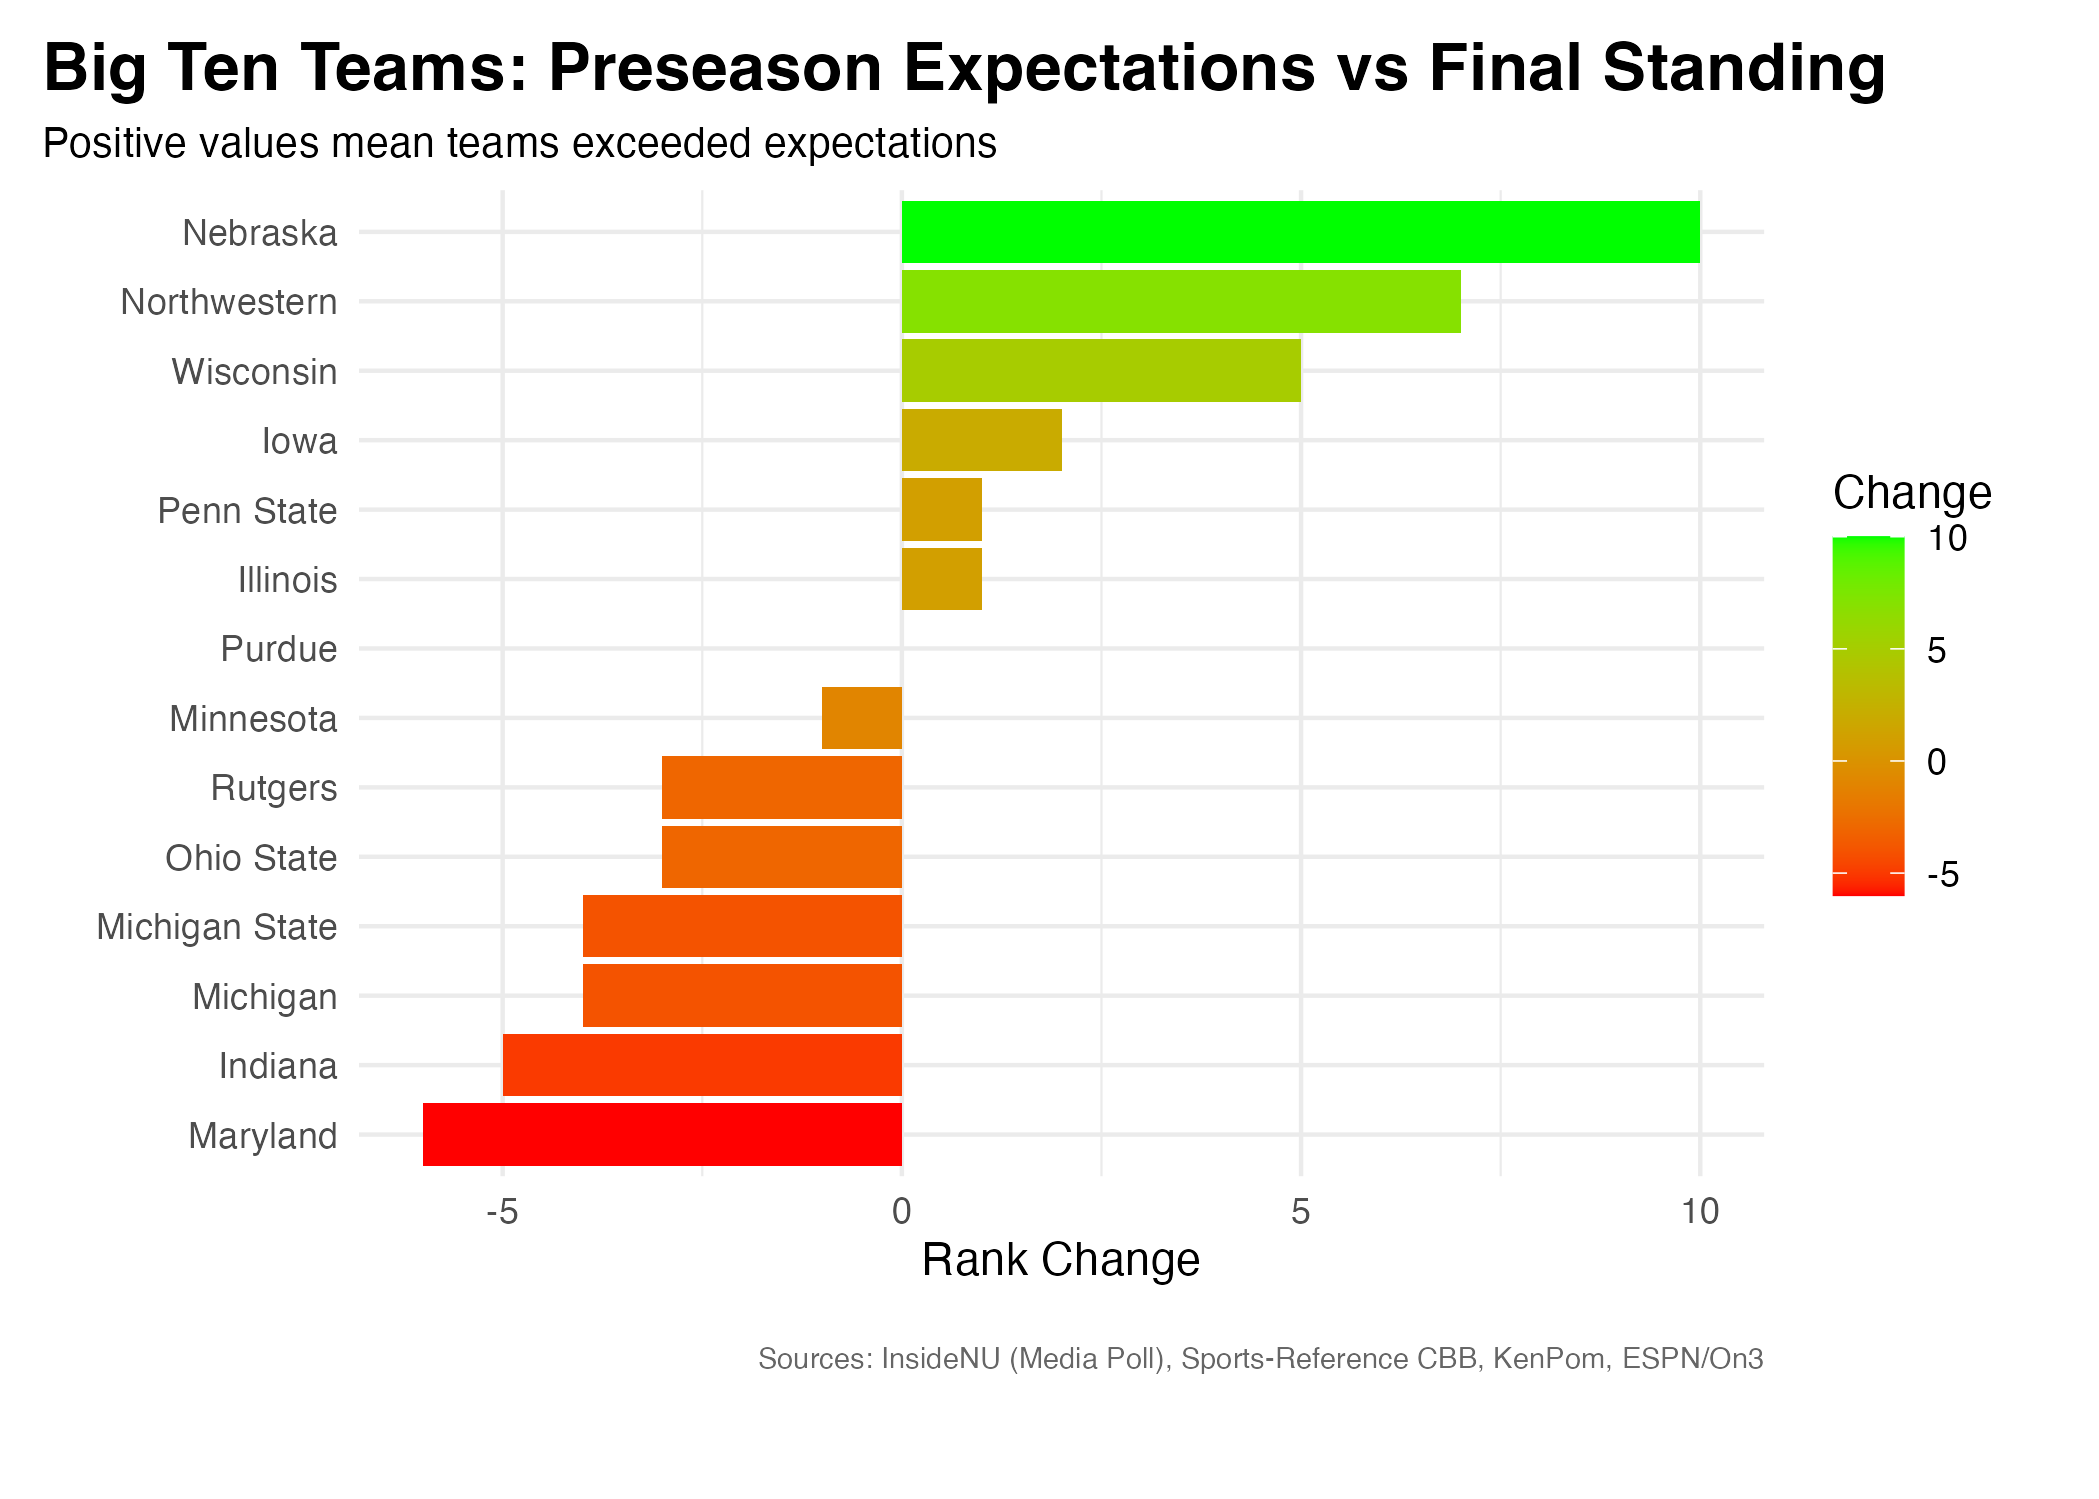
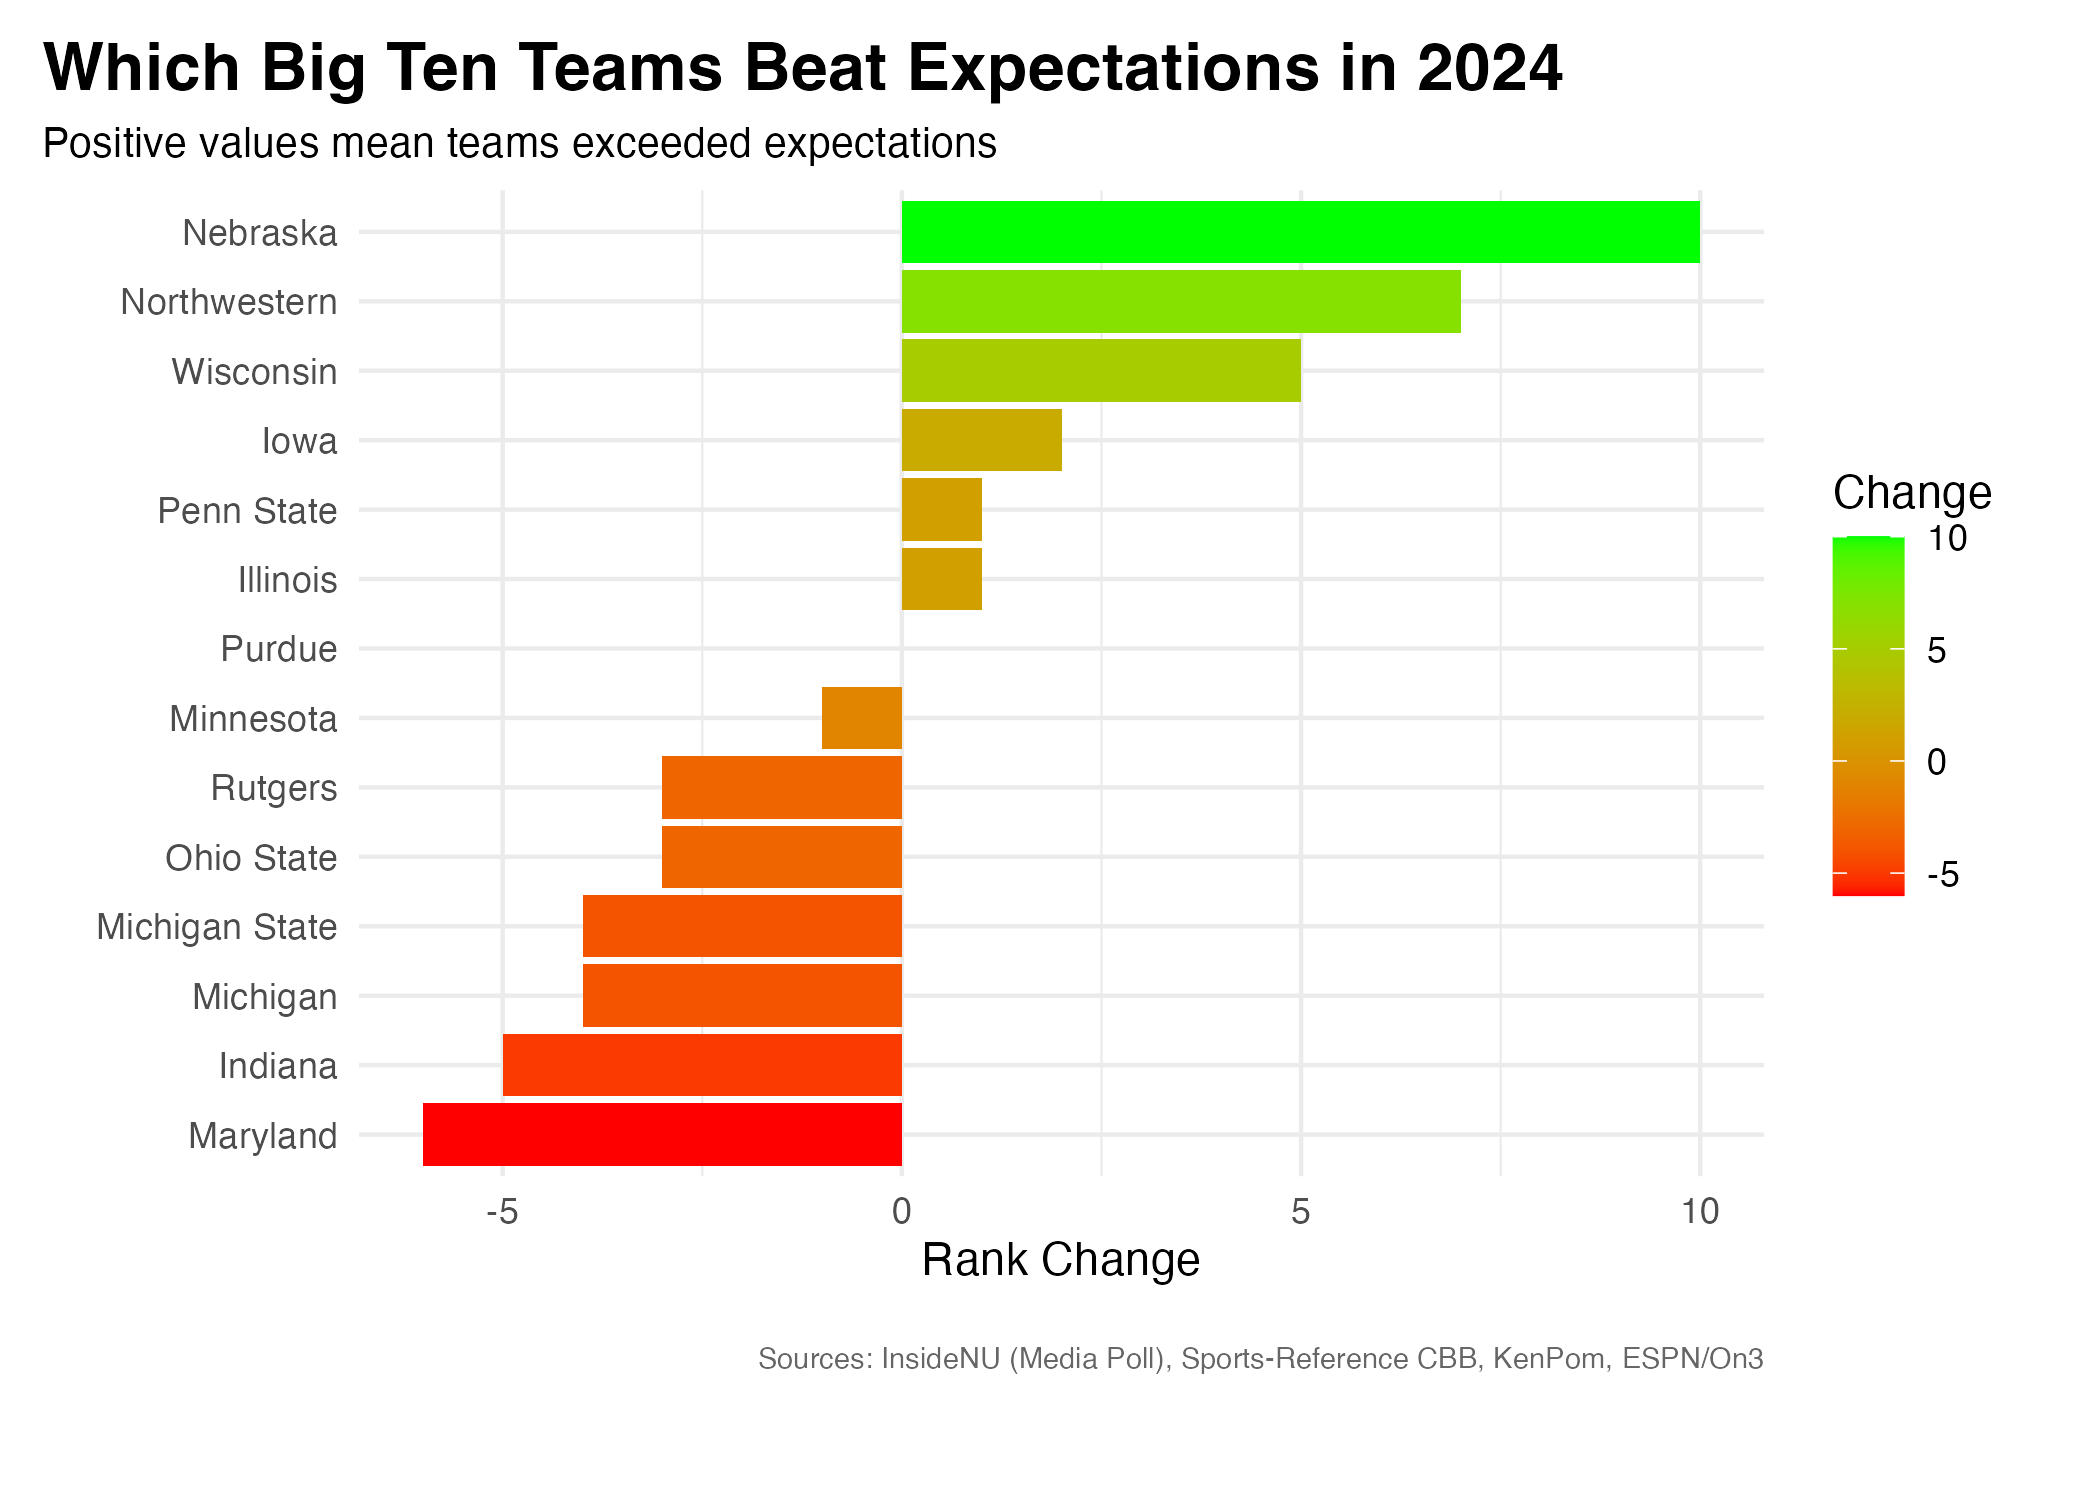
updated again

Changed region(s): [[0.0, 0.0307, 0.898, 0.0614]]

diff --git a/posts/nebraska-mens-basketball-national-title/index.html b/posts/nebraska-mens-basketball-national-title/index.html
@@ -9,7 +9,7 @@
 <meta name="author" content="Brady J. Anderson">
 <meta name="dcterms.date" content="2026-05-04">
 
-<title>Big Ten Men’s Basketball 2024: Tracking the Classic 14 Teams – Brady’s Sports Blog</title>
+<title>Big Ten Men’s Basketball 2024: Preseason Expectations vs.&nbsp;Real Results – Brady's Sports Blog</title>
 <style>
 code{white-space: pre-wrap;}
 span.smallcaps{font-variant: small-caps;}
@@ -154,7 +154,7 @@ pre > code.sourceCode > span > a:first-child::before { text-decoration: underlin
 <header id="title-block-header" class="quarto-title-block default page-columns page-full">
   <div class="quarto-title-banner page-columns page-full">
     <div class="quarto-title column-body">
-      <h1 class="title">Big Ten Men’s Basketball 2024: Tracking the Classic 14 Teams</h1>
+      <h1 class="title">Big Ten Men’s Basketball 2024: Preseason Expectations vs.&nbsp;Real Results</h1>
                       </div>
   </div>
     
@@ -190,7 +190,7 @@ pre > code.sourceCode > span > a:first-child::before { text-decoration: underlin
 
 
 
-<p>The 2024 Big Ten season was one of the most competitive in recent memory. Several teams outperformed their preseason expectations, while others struggled to find consistency.</p>
+<p>The 2024 Big Ten men’s basketball season was really competitive. Some teams did way better than people expected, while others didn’t do as well as predicted. I wanted to see which teams surprised everyone the most. By looking at their offense and defense, we can figure out who exceeded expectations and who fell short.</p>
 <p>Here’s a breakdown of how each team’s offensive and defensive efficiency contributed to their success.</p>
 <div class="cell">
 <details class="code-fold">
@@ -253,7 +253,7 @@ pre > code.sourceCode > span > a:first-child::before { text-decoration: underlin
 <span id="cb2-7"><a href="#cb2-7" aria-hidden="true" tabindex="-1"></a>  <span class="fu">scale_fill_gradient</span>(<span class="at">low =</span> <span class="st">"red"</span>, <span class="at">high =</span> <span class="st">"green"</span>) <span class="sc">+</span></span>
 <span id="cb2-8"><a href="#cb2-8" aria-hidden="true" tabindex="-1"></a>  <span class="fu">coord_flip</span>() <span class="sc">+</span></span>
 <span id="cb2-9"><a href="#cb2-9" aria-hidden="true" tabindex="-1"></a>  <span class="fu">labs</span>(</span>
-<span id="cb2-10"><a href="#cb2-10" aria-hidden="true" tabindex="-1"></a>    <span class="at">title =</span> <span class="st">"Big Ten Teams: Preseason Expectations vs Final Standing"</span>,</span>
+<span id="cb2-10"><a href="#cb2-10" aria-hidden="true" tabindex="-1"></a>    <span class="at">title =</span> <span class="st">"Which Big Ten Teams Beat Expectations in 2024"</span>,</span>
 <span id="cb2-11"><a href="#cb2-11" aria-hidden="true" tabindex="-1"></a>    <span class="at">subtitle =</span> <span class="st">"Positive values mean teams exceeded expectations"</span>,</span>
 <span id="cb2-12"><a href="#cb2-12" aria-hidden="true" tabindex="-1"></a>    <span class="at">x =</span> <span class="st">""</span>,</span>
 <span id="cb2-13"><a href="#cb2-13" aria-hidden="true" tabindex="-1"></a>    <span class="at">y =</span> <span class="st">"Rank Change"</span>,</span>

diff --git a/index.html b/index.html
@@ -209,7 +209,7 @@ window.Quarto = {
 
 <div class="quarto-listing quarto-listing-container-default" id="listing-listing">
 <div class="list quarto-listing-default">
-<div class="quarto-post image-right" data-index="0" data-listing-date-sort="1777870800000" data-listing-file-modified-sort="1763509395346" data-listing-date-modified-sort="NaN" data-listing-reading-time-sort="7" data-listing-word-count-sort="1319">
+<div class="quarto-post image-right" data-index="0" data-listing-date-sort="1777870800000" data-listing-file-modified-sort="1763510104556" data-listing-date-modified-sort="NaN" data-listing-reading-time-sort="7" data-listing-word-count-sort="1347">
 <div class="thumbnail"><a href="./posts/nebraska-mens-basketball-national-title/index.html" class="no-external">
 
 <img loading="lazy" src="./posts/nebraska-mens-basketball-national-title/image.png" class="thumbnail-image">
@@ -217,10 +217,10 @@ window.Quarto = {
 </a></div>
 <div class="body">
 <h3 class="no-anchor listing-title">
-<a href="./posts/nebraska-mens-basketball-national-title/index.html" class="no-external">Big Ten Men’s Basketball 2024: Tracking the Classic 14 Teams</a>
+<a href="./posts/nebraska-mens-basketball-national-title/index.html" class="no-external">Big Ten Men’s Basketball 2024: Preseason Expectations vs.&nbsp;Real Results</a>
 </h3>
 <div class="delink listing-description"><a href="./posts/nebraska-mens-basketball-national-title/index.html" class="no-external">
-The 2024 Big Ten season was one of the most competitive in recent memory. Several teams outperformed their preseason expectations, while others struggled to find consistency.
+The 2024 Big Ten men’s basketball season was really competitive. Some teams did way better than people expected, while others didn’t do as well as predicted. I wanted to see…
 </a></div>
 </div>
 <div class="metadata">
